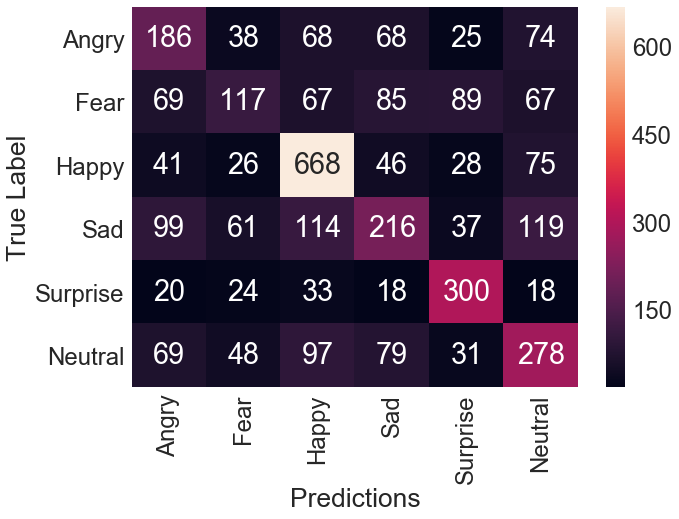
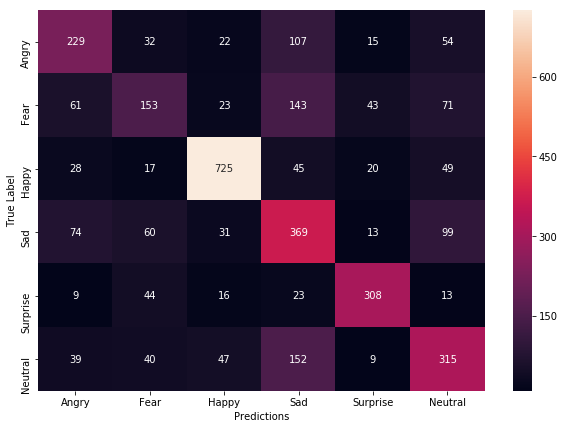
finished first post, added disqus plugin

diff --git a/assets/js/recognizer.js b/assets/js/recognizer.js
@@ -100,9 +100,9 @@ function runRecognizer(){
 }
 
 window.onload = function() {
-  const modelPath = '/assets/keras-models/model4Untouched.json';
-  const weightsPath = '/assets/keras-models/model4Untouched_weights.buf';
-  const metaDataPath = '/assets/keras-models/model4Untouched_metadata.json';
+  const modelPath = '/assets/keras-models/bestModel.json';
+  const weightsPath = '/assets/keras-models/bestModel_weights.buf';
+  const metaDataPath = '/assets/keras-models/bestModel_metadata.json';
   scope.kerasManager = new KerasManager(modelPath, weightsPath, metaDataPath);
   var emotions = ['Angry', 'Fear', 'Happy', 'Sad', 'Surprise', 'Neutral'];
   scope.kerasManager.outputMap = emotions;

diff --git a/_posts/2017-12-16-First-Post.md b/_posts/2017-12-16-First-Post.md
@@ -3,6 +3,7 @@ layout: post
 title:  "Recognizing Emotions via Convolution Networks"
 date:   2017-12-16 11:49:01 +0000
 categories: jekyll update
+comments: true
 ---
 
 Humans can easily recognize the mood of a person by looking at them.  
@@ -161,6 +162,6 @@ function runRecognizer(){
 ```
 ## Result
 
-The overall accuracy is close to 50% for the testing set.
+The overall accuracy is close to 60% for the testing set.
 <img src='/assets/images/Results.png' style='width: 100%'/>
 <img src='/assets/images/confusionMatrix.png' style='width: 100%'/>
